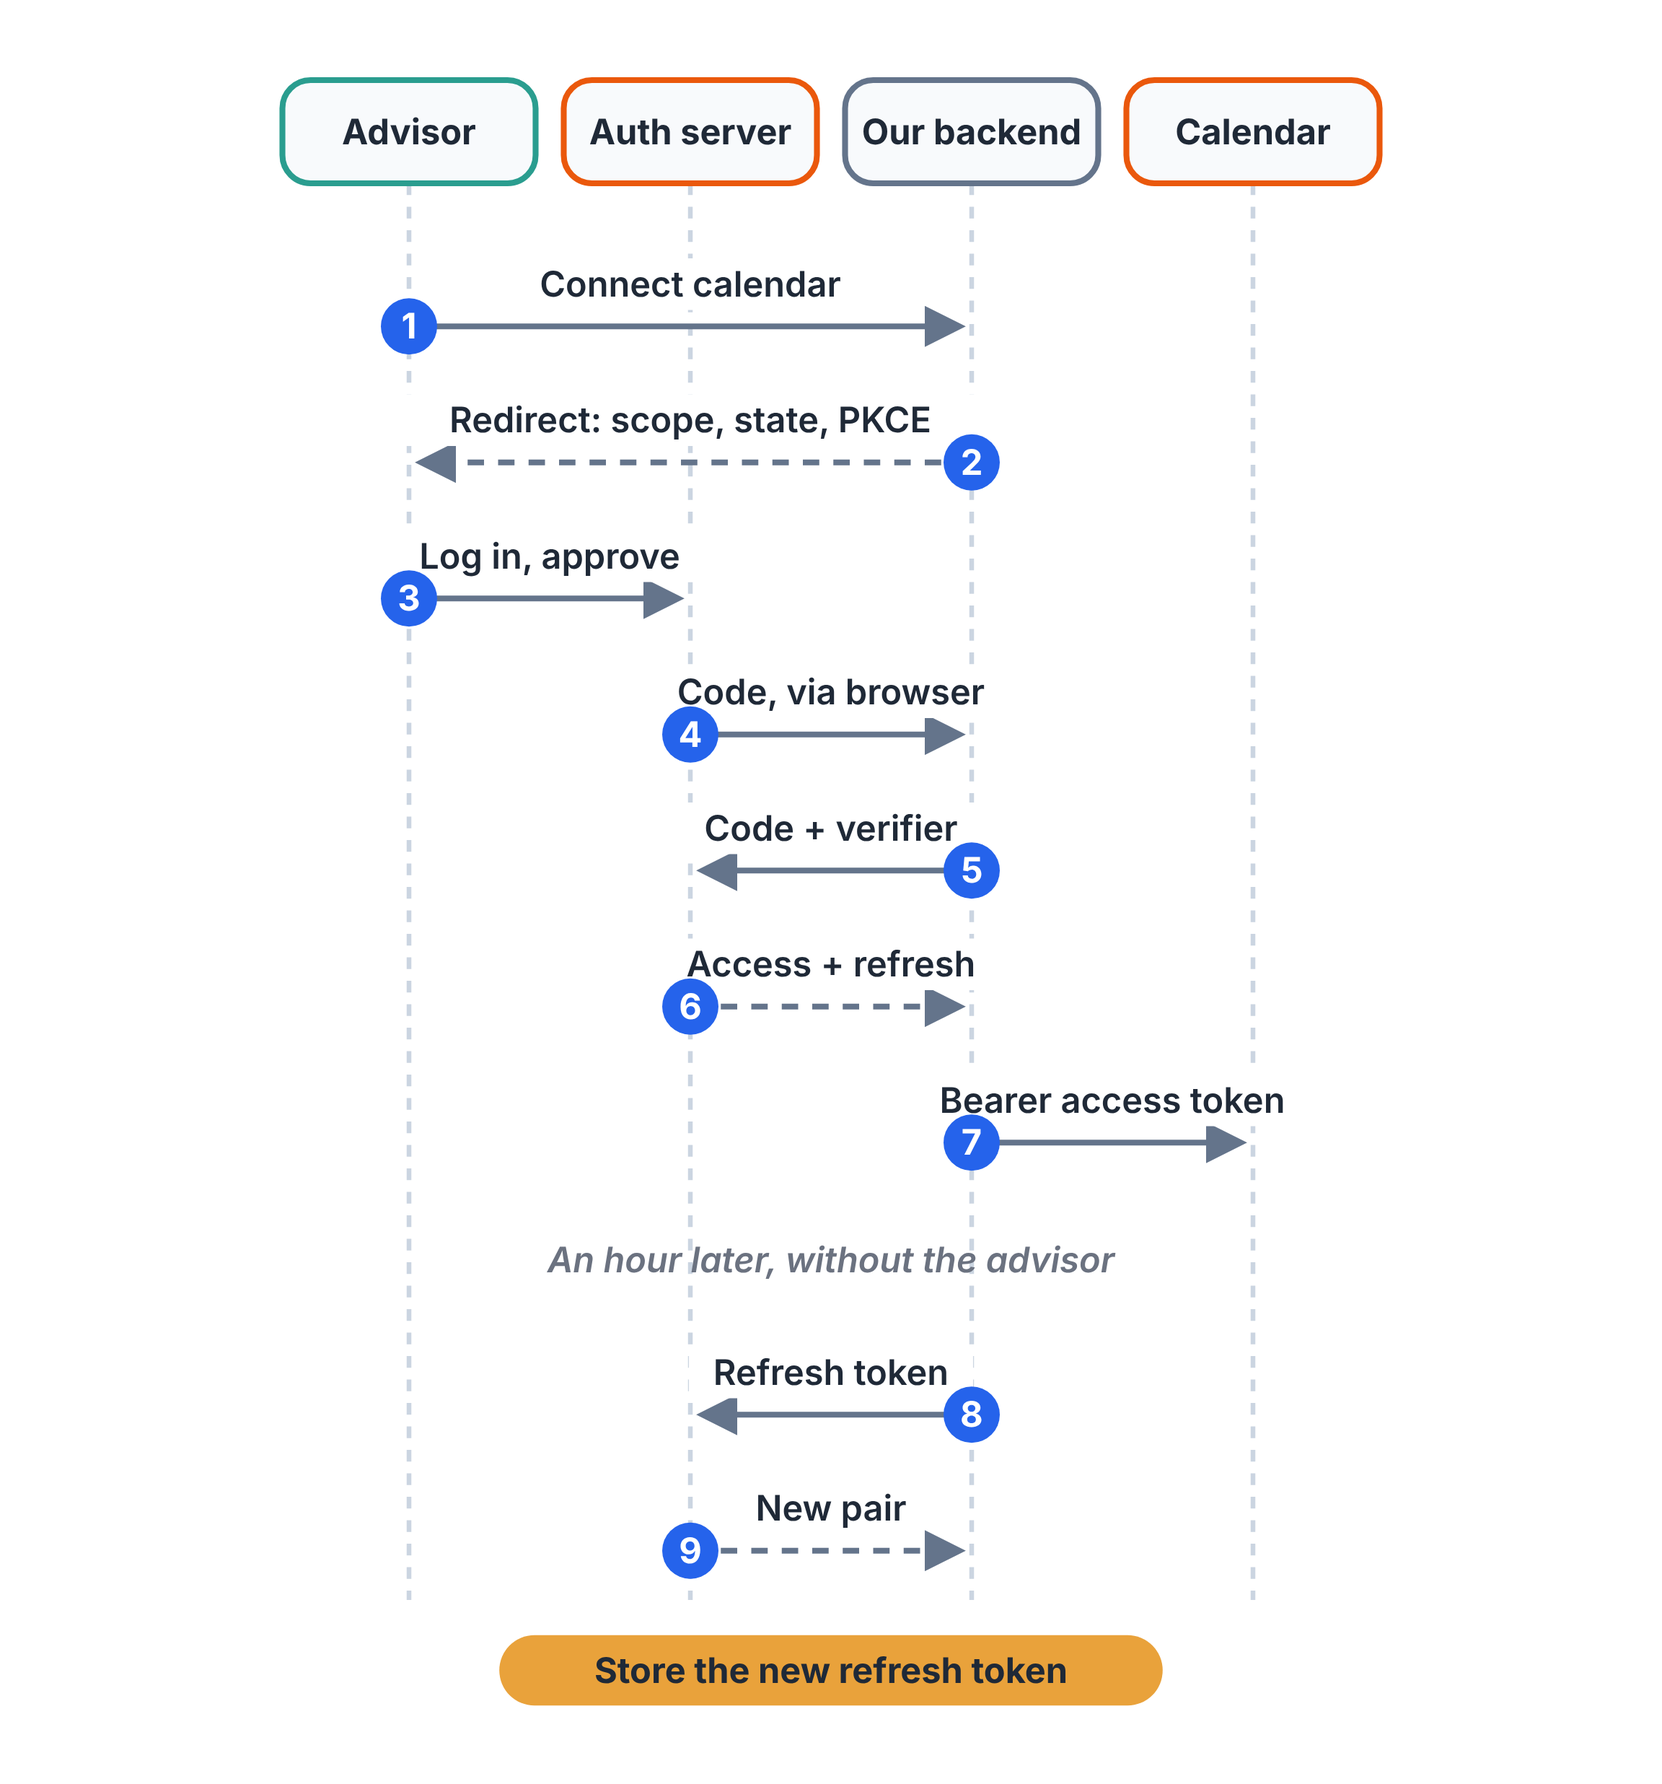
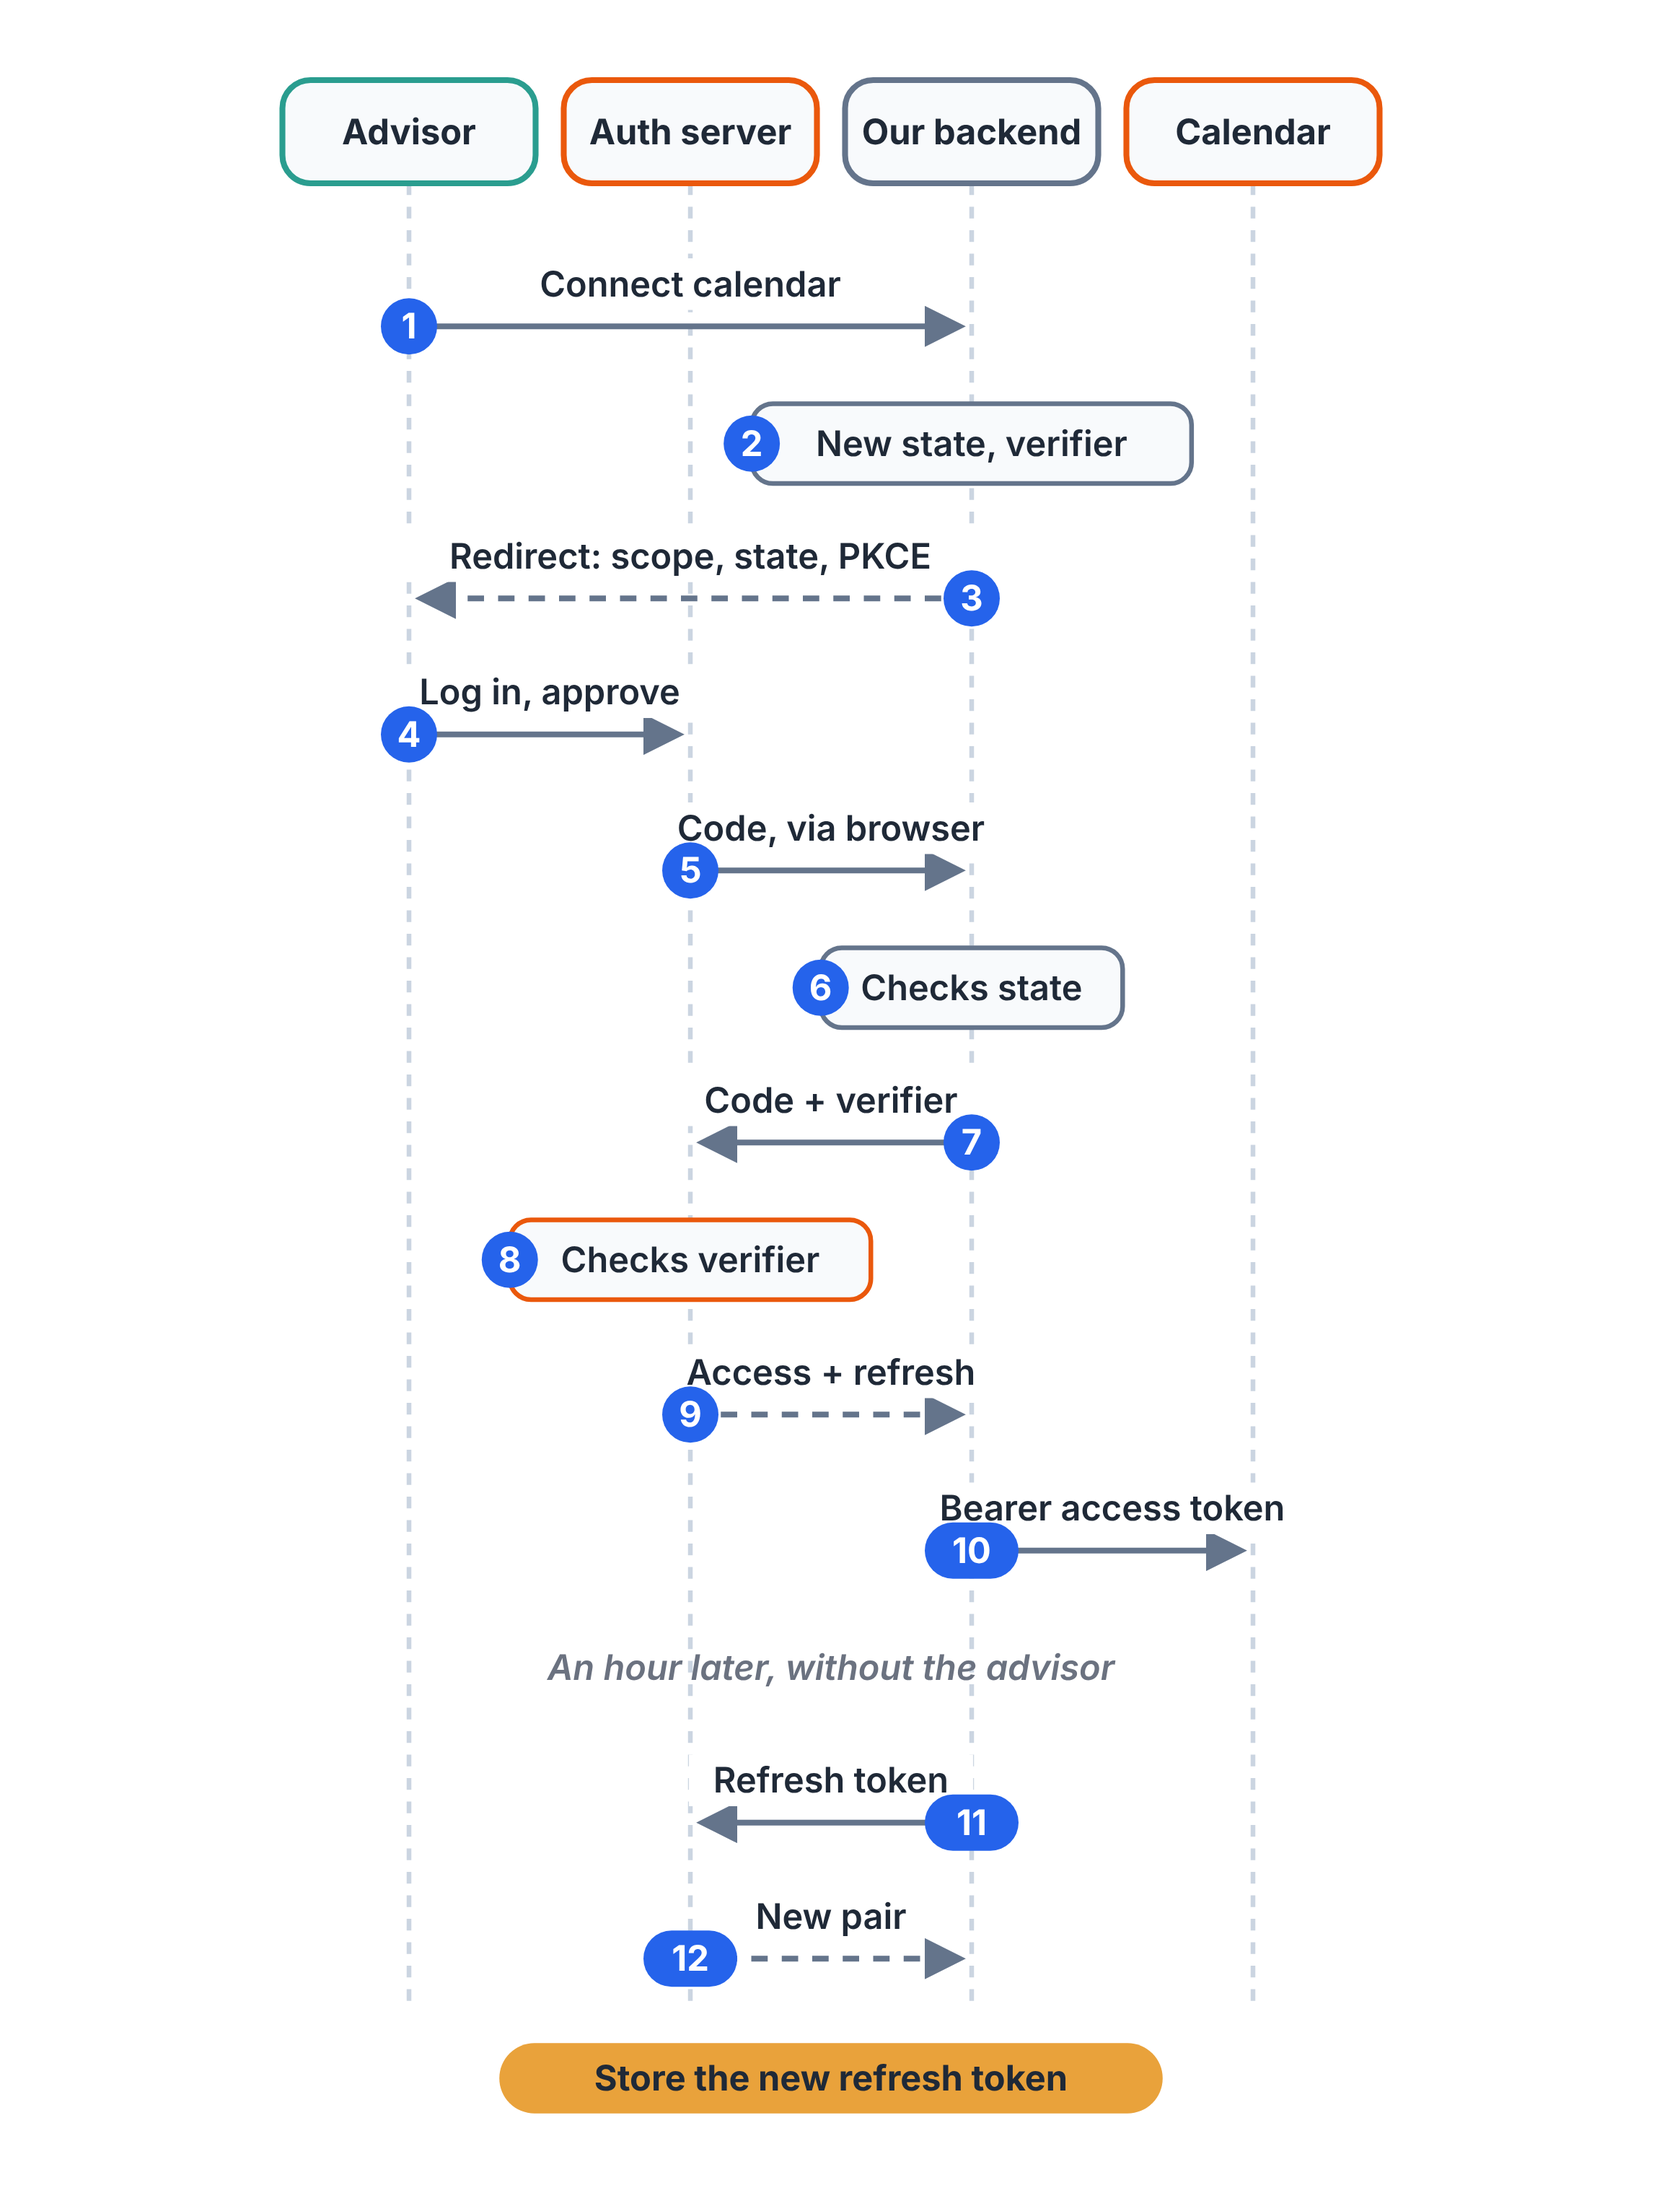
API keys post: restructure, colour-code values, draw the steps nobody sees
- Drop the opening table: its rows were a credential, a protocol and a
  format, so its columns didn't compare. The example now opens the post
  as "One agent, three systems", with the model rule and then the map,
  and a short closing section sums up the three systems.
- CodeMarks and Mark colour a value in a code block and where the text
  names it, the same colour in every block: state, the PKCE values and
  the code through the authorization code flow, the access and refresh
  tokens, the JWKS kid, the PyJWT parameters and the 401/403 errors.
- The authorization code figure draws the steps that happen out of
  sight: the backend makes state and verifier for this login (2),
  checks the state (6), and the auth server checks the verifier (8).
  The text says how long state lives: this one login.
- The JWKS example moves back to the JWT section; client credentials
  keeps steps 4 to 6 in one sentence. Calendar tokens are named opaque
  where they appear, and the leak point is made once less.

Claude-Session: https://claude.ai/code/session_01Gv2yEyF6HgVGgacTmudrvR

Changed region(s): [[0.2812, 0.3738, 0.7812, 0.9656], [0.1562, 0.0311, 0.8438, 0.3115], [0.2188, 0.3115, 0.4062, 0.3738]]

diff --git a/src/components/AuthFigures.tsx b/src/components/AuthFigures.tsx
@@ -170,10 +170,13 @@ function AuthorizationCode({ id }: { id: string }) {
       ]}
       rows={[
         { from: 0, to: 2, label: 'Connect calendar' },
+        { from: 2, label: 'New state, verifier', numbered: true },
         { from: 2, to: 0, label: 'Redirect: scope, state, PKCE', reply: true },
         { from: 0, to: 1, label: 'Log in, approve' },
         { from: 1, to: 2, label: 'Code, via browser' },
+        { from: 2, label: 'Checks state', numbered: true },
         { from: 2, to: 1, label: 'Code + verifier' },
+        { from: 1, label: 'Checks verifier', numbered: true },
         { from: 1, to: 2, label: 'Access + refresh', reply: true },
         { from: 2, to: 3, label: 'Bearer access token' },
         { gap: 'An hour later, without the advisor' },
@@ -181,7 +184,7 @@ function AuthorizationCode({ id }: { id: string }) {
         { from: 1, to: 2, label: 'New pair', reply: true },
       ]}
       tag="Store the new refresh token"
-      tagStep={9}
+      tagStep={12}
     />
   );
 }
@@ -288,7 +291,7 @@ export const DESCRIPTIONS = {
   'client-credentials':
     'Client credentials: the tools send the client ID and secret to the CRM’s auth server and get an access token valid for an hour. They send it as a bearer token to the CRM API, which fetches the auth server’s public keys once, checks the JWT with them and returns Alex’s account.',
   'authorization-code':
-    'Authorization code: the advisor clicks Connect calendar in our app, and our backend redirects them to the auth server with the scope, a state value and a PKCE challenge. The advisor logs in and approves; the auth server sends a code back through the browser, and the backend trades code and verifier for an access and a refresh token, then calls the calendar. An hour later it trades the refresh token for a new pair, without the advisor.',
+    'Authorization code: the advisor clicks Connect calendar in our app. Our backend makes a new state value and PKCE verifier for this login and redirects the advisor to the auth server with the scope, the state and the PKCE challenge. The advisor logs in and approves; the auth server sends a code back through the browser, and the backend checks the state. It trades code and verifier for an access and a refresh token; the auth server checks the verifier first. The backend then calls the calendar. An hour later it trades the refresh token for a new pair, without the advisor.',
   jwt: 'The CRM’s access token is a JWT in three dot-separated parts. The header names the algorithm and the key; the payload holds the claims iss, sub, aud, scope and exp, readable by anyone; the signature over both is made with the auth server’s private key.',
 } as const;
 

diff --git a/tests/auth-steps.spec.ts b/tests/auth-steps.spec.ts
@@ -10,10 +10,10 @@ test.describe('Pinned figures in API Keys, OAuth and JWT', () => {
     const lit = () => block.locator('.pinned [data-step]:not(.off)').evaluateAll((els) => [...new Set(els.map((e) => (e as HTMLElement).dataset.step))]);
 
     // Bring the paragraph about the code exchange to the reading line.
-    const exchange = block.locator('.steps > p', { hasText: 'trades it (5)' });
+    const exchange = block.locator('.steps > p', { hasText: 'trades it (7)' });
     const top = await exchange.evaluate((e) => e.getBoundingClientRect().top + window.scrollY);
     await page.evaluate((y) => window.scrollTo(0, y - window.innerHeight * 0.4 + 10), top);
-    await expect.poll(lit).toEqual(['5']);
+    await expect.poll(lit).toEqual(['7']);
 
     // Above the block, nothing is greyed out.
     await page.evaluate(() => window.scrollTo(0, 0));
@@ -24,7 +24,7 @@ test.describe('Pinned figures in API Keys, OAuth and JWT', () => {
     await page.setViewportSize({ width: 390, height: 844 });
     await page.goto(POST);
     const block = page.locator('.auth-steps').nth(1);
-    await block.locator('.steps > p', { hasText: 'trades it (5)' }).scrollIntoViewIfNeeded();
+    await block.locator('.steps > p', { hasText: 'trades it (7)' }).scrollIntoViewIfNeeded();
     await expect(block.locator('.pinned .off')).toHaveCount(0);
   });
 });

diff --git a/src/components/code-marks.css b/src/components/code-marks.css
@@ -1,0 +1,29 @@
+/* Colours that tie a value in a code block (CodeMarks.astro) to where the text
+   names it (Mark.astro). The figure palette in loop-animation.css: blue, orange,
+   teal, amber. Code blocks are always dark, so they take the dark values. */
+:root {
+  --cm-blue: #2563eb;
+  --cm-orange: #ea580c;
+  --cm-teal: #2a9d8f;
+  --cm-amber: #b7791f;
+}
+.dark,
+.code-marks {
+  --cm-blue: #5b9cea;
+  --cm-orange: #f97316;
+  --cm-teal: #3bb3a4;
+  --cm-amber: #f0b552;
+}
+.cm-blue { --cm: var(--cm-blue); }
+.cm-orange { --cm: var(--cm-orange); }
+.cm-teal { --cm: var(--cm-teal); }
+.cm-amber { --cm: var(--cm-amber); }
+
+.code-marks .cm,
+.prose code.cm {
+  color: var(--cm);
+  background: color-mix(in srgb, var(--cm) 16%, transparent);
+  border-bottom: 2px solid var(--cm);
+  border-radius: 3px;
+  font-weight: 600;
+}

diff --git a/src/components/AGENTS.md b/src/components/AGENTS.md
@@ -36,6 +36,13 @@ its own class to `loop-animation.css`.
   While pinned, the figure highlights the step being read: a paragraph naming
   steps in brackets, "(4)" or "(7, 8)", starts that step, so name the step
   there, and tag the figure's rows with `data-step` (`AuthFigures.tsx`).
+  Draw the steps nobody sees too, such as a value being generated or checked,
+  as numbered notes (`numbered: true`).
+- **Colour-coded code:** where the text explains values in a code block,
+  `<CodeMarks code={...} marks={{ 'state=...': 'teal' }} />` colours them and
+  `<Mark c="teal">state</Mark>` names them in the same colour. Give a value
+  the same colour in every block it appears in, so a reader can follow it
+  through a flow (`code-marks.css`: blue, orange, teal, amber).
 - **Animations:** `<LoopAnimation name="..." />`; see `src/remotion/AGENTS.md`.
 - **Confluence:** a paste into Confluence drops inline SVG, so the drawn figures
   show a PNG in the Confluence copy (their `Astro.locals.confluence` branch).
